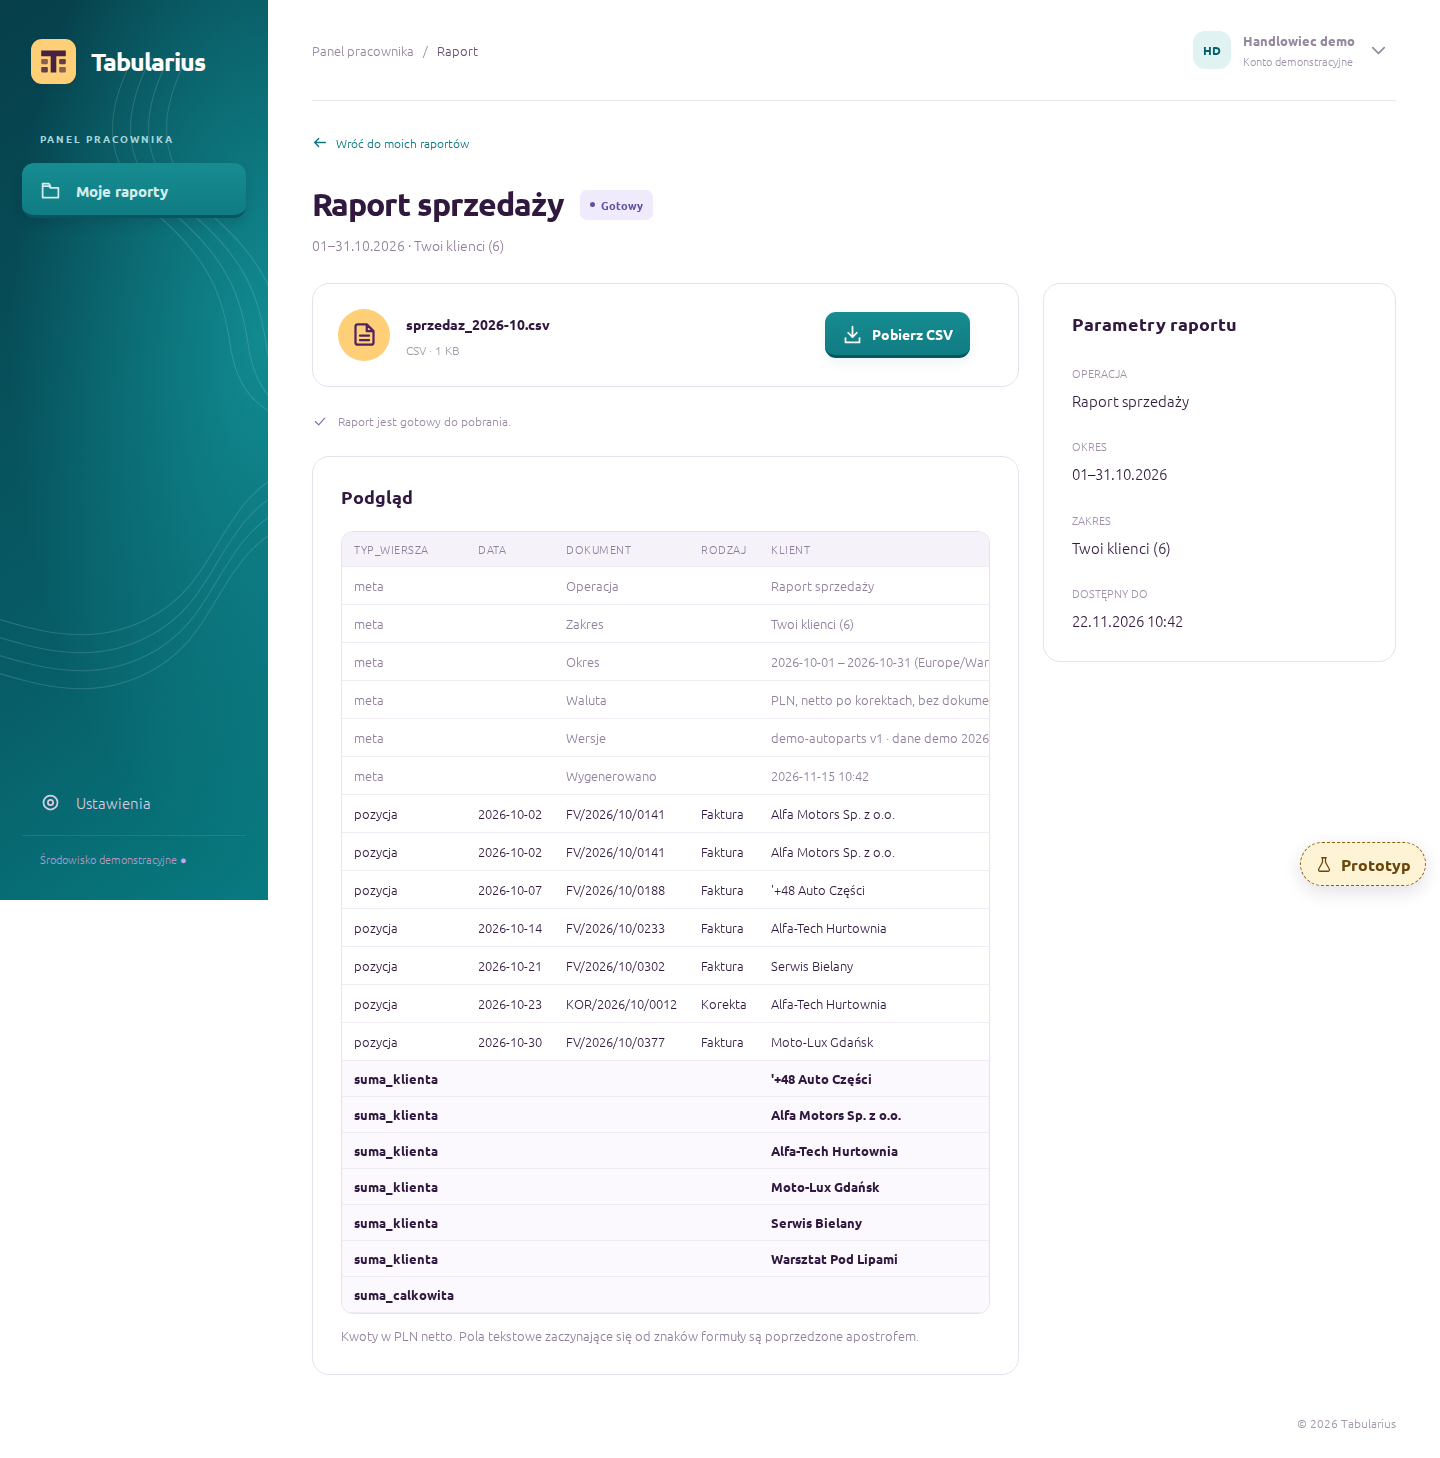
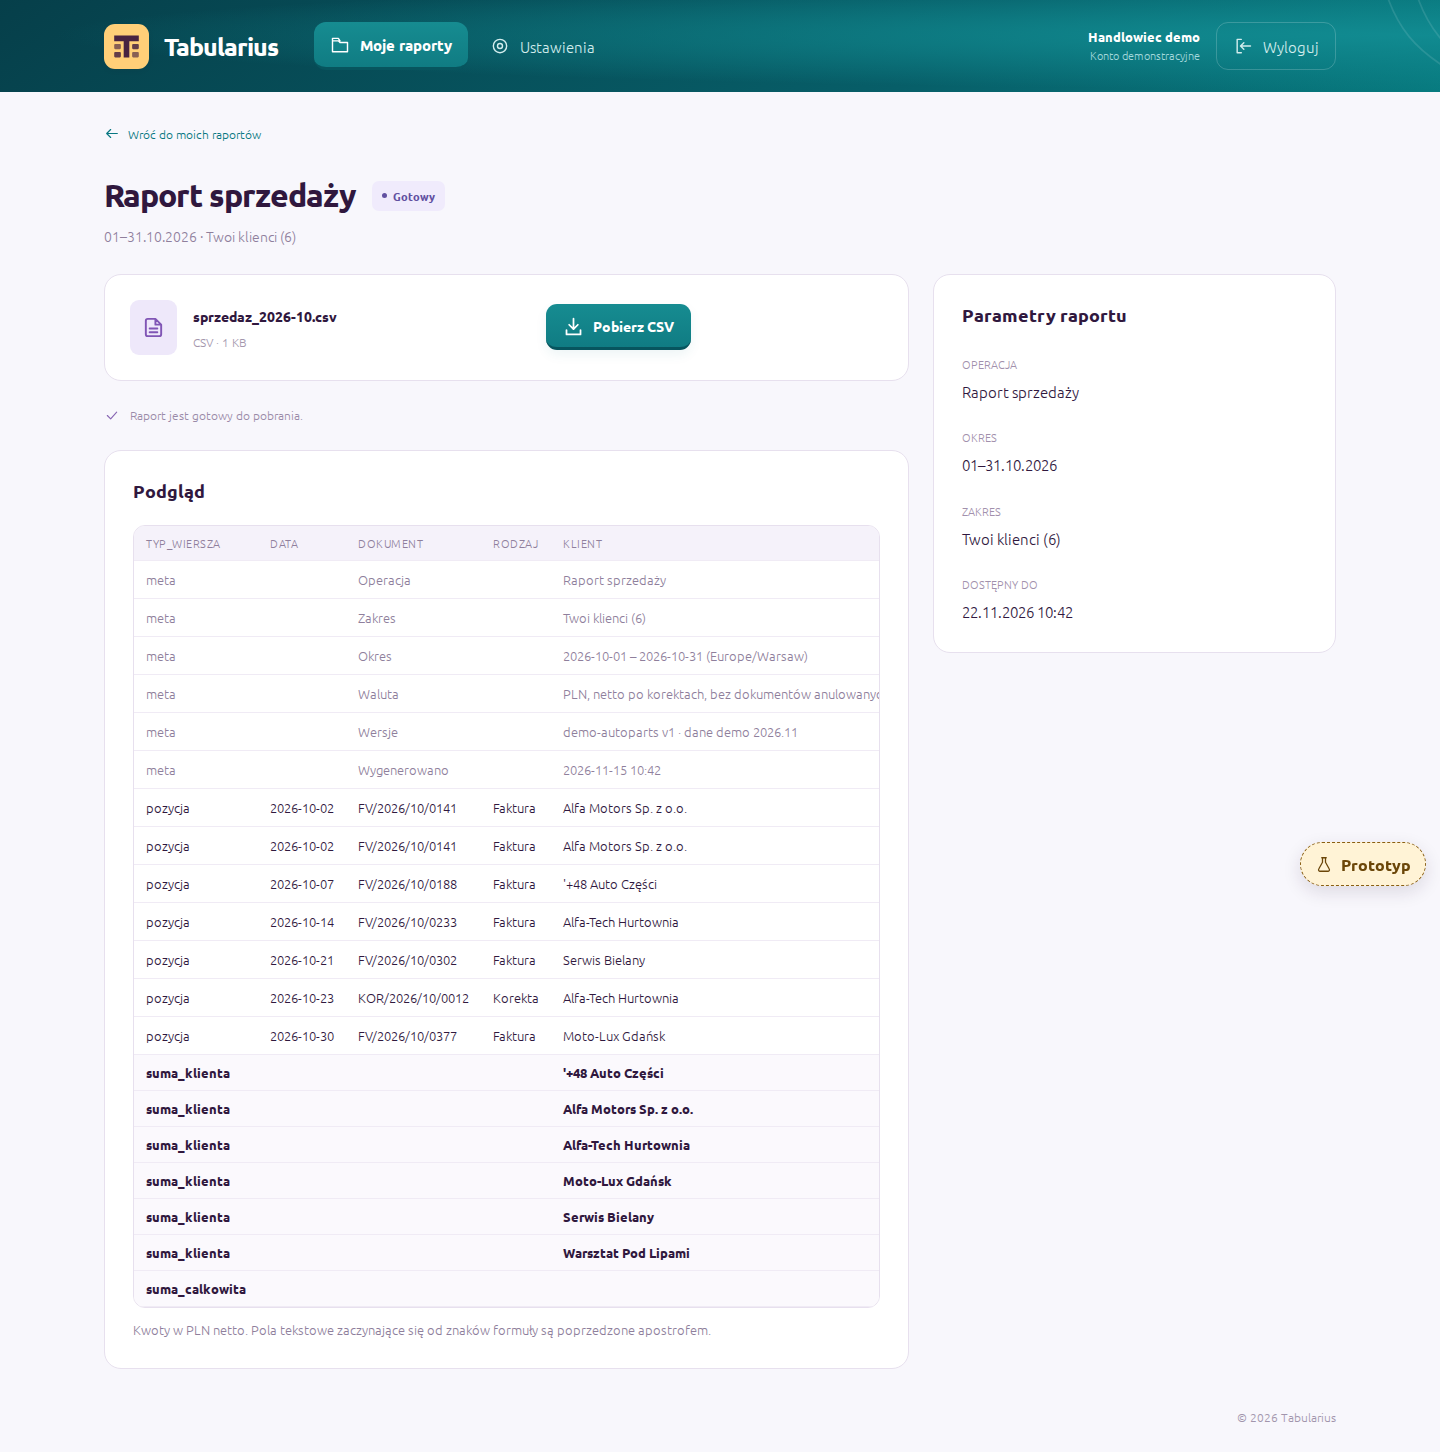
[client] Employee header instead of sidebar; demo credentials format

diff --git a/client/src/components/EmployeeShell.vue b/client/src/components/EmployeeShell.vue
@@ -1,0 +1,60 @@
+<script setup lang="ts">
+// Employee shell: one teal header with all links (no sidebar — the employee has a single section).
+// Colours come from the employee login hero (mockup 01-logowanie-pracownik); content uses the mockup classes.
+import { ref, watch } from 'vue'
+import { useRoute, useRouter } from 'vue-router'
+import logo from '../assets/logo.svg'
+import { logout, proto } from '../mock/api'
+import Ico from './Ico.vue'
+
+const route = useRoute()
+const router = useRouter()
+const drawer = ref<HTMLDetailsElement | null>(null)
+const links = [
+  { to: '/moje-raporty', label: 'Moje raporty', icon: 'folder', match: (p: string) => p.startsWith('/moje-raporty') && p !== '/moje-raporty/konto' },
+  { to: '/moje-raporty/konto', label: 'Ustawienia', icon: 'settings', match: (p: string) => p === '/moje-raporty/konto' },
+]
+watch(() => route.fullPath, () => {
+  if (drawer.value) drawer.value.open = false
+})
+function onKey(e: KeyboardEvent) {
+  if (e.key === 'Escape' && drawer.value) drawer.value.open = false
+}
+function signOut() {
+  logout()
+  void router.push('/logowanie')
+}
+</script>
+
+<template>
+  <div class="screen x-emp x-empshell" @keydown="onKey">
+    <header class="x-emphead">
+      <div class="x-empinner">
+        <RouterLink class="brand" to="/moje-raporty"><img :src="logo" alt="" />Tabularius</RouterLink>
+        <nav class="x-emplinks" aria-label="Nawigacja">
+          <RouterLink v-for="l in links" :key="l.to" :to="l.to" class="x-emplink" :class="{ active: l.match(route.path) }" :aria-current="l.match(route.path) ? 'page' : undefined">
+            <Ico :name="l.icon" />{{ l.label }}
+          </RouterLink>
+        </nav>
+        <div class="x-empuser">
+          <span class="x-empname"><b>Handlowiec demo</b><small>{{ proto.mode === 'demo' ? 'Konto demonstracyjne' : 'Panel pracownika' }}</small></span>
+          <button class="x-emplink" type="button" @click="signOut"><Ico name="logout" />Wyloguj</button>
+        </div>
+        <details ref="drawer" class="menudrawer x-empmenu">
+          <summary aria-label="Otwórz menu"><Ico name="menu" :width="2" /></summary>
+          <nav class="drawer" aria-label="Nawigacja">
+            <div class="workspace">PANEL PRACOWNIKA</div>
+            <RouterLink v-for="l in links" :key="l.to" :to="l.to" class="nav" :class="{ active: l.match(route.path) }" :aria-current="l.match(route.path) ? 'page' : undefined">
+              <Ico :name="l.icon" />{{ l.label }}
+            </RouterLink>
+            <button class="nav" type="button" @click="signOut"><Ico name="logout" />Wyloguj</button>
+          </nav>
+        </details>
+      </div>
+    </header>
+    <main id="main" class="main x-empmain" tabindex="-1">
+      <RouterView />
+      <footer class="x-empfoot">© 2026 Tabularius</footer>
+    </main>
+  </div>
+</template>

diff --git a/client/src/styles/extras.css b/client/src/styles/extras.css
@@ -124,3 +124,36 @@ td a{color:inherit;text-decoration:none}
 .detailgrid>*{min-width:0}
 .x-row a.cta,.x-emp .x-row a.cta{color:#fff}
 @media (max-width: 860px){.login .form,.login:has(.hero.blue) .form,.login:has(.hero:not(.blue)) .form{margin-top:33px}}
+
+/* Employee shell: teal header instead of a one-item sidebar (owner request 2026-11-21). */
+.x-empshell{background:#f8f7fc}
+.x-emphead{position:relative;z-index:5;color:#fff;isolation:isolate;overflow:visible;background:radial-gradient(ellipse at 100% 38%,#118b91 0,transparent 68%),linear-gradient(145deg,#063f4a,#075e68 65%,#087b80)}
+.x-emphead::before{content:'';position:absolute;inset:0;z-index:-1;background:url('../assets/pattern-flow.svg') right center/650px 1000px no-repeat;opacity:.8;pointer-events:none}
+.x-empinner{max-width:1320px;margin:0 auto;padding:0 44px;min-height:92px;display:flex;align-items:center;gap:36px}
+.x-emphead .brand{color:#fff;font-size:25px}
+.x-emphead .brand img{width:45px;height:45px}
+.x-emplinks{display:flex;gap:6px;margin-right:auto}
+.x-emplink{display:inline-flex;align-items:center;gap:10px;min-height:48px;padding:0 16px;border-radius:12px;border:0;background:none;color:#d3eded;font:inherit;font-size:15px;text-decoration:none;cursor:pointer}
+.x-emplink .ico{width:20px;height:20px}
+.x-emplink:hover{background:#ffffff14}
+.x-emplink.active{background:linear-gradient(180deg,#168c91,#107c83);border-bottom:3px solid #07555e;color:#fff;font-weight:700}
+.x-empuser{display:flex;align-items:center;gap:16px}
+.x-empname{text-align:right;font-size:13px;line-height:1.35}
+.x-empname b{display:block}
+.x-empname small{color:#a3d8dc;font-size:11px}
+.x-empuser .x-emplink{border:1px solid #ffffff30}
+.x-empmenu{display:none}
+.x-empmain{max-width:1320px;margin:0 auto;width:100%}
+.x-empfoot{text-align:right;padding:40px 0 27px;font-size:12px;color:#a295ac}
+.x-emphead .menudrawer summary{background:#ffffff1c}
+.x-emphead .drawer{top:82px}
+@media (max-width: 860px){
+  .x-empinner{padding:0 20px;min-height:82px;gap:12px;justify-content:space-between}
+  .x-emphead .brand{font-size:23px}
+  .x-emphead .brand img{width:41px;height:41px}
+  .x-emplinks,.x-empuser{display:none}
+  .x-empmenu{display:block}
+  .x-empmain{padding:0 20px}
+  .x-empfoot{padding:22px 0 27px;font-size:11px}
+}
+.x-empmain a.cta{font-weight:700}

diff --git a/client/src/views/LoginView.vue b/client/src/views/LoginView.vue
@@ -71,7 +71,9 @@ function forgot() {
           <p>Wyślij e-mail z poleceniem na adres:</p>
           <b class="address">{{ DEMO_MAILBOX }}</b>
           <p>Przykład: Przygotuj raport sprzedaży<br />za październik 2026.</p>
-          <p style="font-size: 13px; margin-top: 12px; opacity: 0.8">Link do raportu otrzymasz w odpowiedzi. Konto demo: <b>{{ creds.email }}</b> / <b>{{ creds.password }}</b></p>
+          <p style="font-size: 13px; margin-top: 12px; opacity: 0.8">Link do raportu otrzymasz w odpowiedzi.</p>
+          <p style="margin-top: 18px">Przykładowe dane logowania</p>
+          <p style="margin-top: 12px">E-mail: <b>{{ creds.email }}</b><br />Hasło: <b>{{ creds.password }}</b></p>
         </template>
       </div>
       <div class="herofoot">TABULARIUS &nbsp; / &nbsp; WERSJA DEMONSTRACYJNA</div>
@@ -122,7 +124,9 @@ function forgot() {
           <p>Wyślij e-mail z poleceniem na adres:</p>
           <b class="address">{{ DEMO_MAILBOX }}</b>
           <p>Przykład: Przygotuj raport sprzedaży<br />za październik 2026.</p>
-          <p style="font-size: 13px; margin-top: 12px; opacity: 0.8">Link do raportu otrzymasz w odpowiedzi. Konto demo: <b>{{ creds.email }}</b> / <b>{{ creds.password }}</b></p>
+          <p style="font-size: 13px; margin-top: 12px; opacity: 0.8">Link do raportu otrzymasz w odpowiedzi.</p>
+          <p style="margin-top: 18px">Przykładowe dane logowania</p>
+          <p style="margin-top: 12px">E-mail: <b>{{ creds.email }}</b><br />Hasło: <b>{{ creds.password }}</b></p>
         </template>
       </div>
       <div class="formfooter"><span>© 2026 Tabularius</span></div>

diff --git a/client/src/router.ts b/client/src/router.ts
@@ -10,8 +10,7 @@ export const router = createRouter({
     { path: '/admin/logowanie', component: () => import('./views/LoginView.vue'), props: { role: 'admin' }, meta: { title: 'Logowanie administratora' } },
     {
       path: '/moje-raporty',
-      component: () => import('./components/AppShell.vue'),
-      props: { role: 'employee' },
+      component: () => import('./components/EmployeeShell.vue'),
       meta: { role: 'employee' },
       children: [
         { path: '', component: () => import('./views/employee/MyReportsView.vue'), meta: { title: 'Moje raporty' } },

diff --git a/docs/design/prototype/README.md b/docs/design/prototype/README.md
@@ -16,7 +16,7 @@ Run instructions: [client/README.md](../../../client/README.md). Status: **secon
 
 | Where | Mockup | Prototype | Reason |
 |---|---|---|---|
-| Employee login, demo box | Mailbox address only | Adds the shared demo account credentials (`handlowiec@example.com` / `Demo123!`) | Brief §4.1: shared demo credentials are displayed. Without them the employee cannot open the linked report |
+| Employee login, demo box | Mailbox address only | Adds „Przykładowe dane logowania” with `handlowiec@example.com` / `Demo123!`, in the same format as the admin box (owner request, 2026-11-21) | Brief §4.1: shared demo credentials are displayed. Without them the employee cannot open the linked report |
 | Admin login, demo box | „Konto demonstracyjne do skonfigurowania” | „Konto demonstracyjne, wspólne dla uczestników” | The account exists in the prototype. `admin@example.com` / `Demo123!` are taken from the mockup |
 | Admin login heading | „Odbierz raport” | unchanged | Kept as in the mockup. It may be a copy of the employee heading; **owner to confirm** |
 | Login screens | Static fields | Validation errors, show/hide password, error and „after login we open the report” notes | Brief §9 states |
@@ -25,7 +25,7 @@ Run instructions: [client/README.md](../../../client/README.md). Status: **secon
 | Ticket details | Correspondence, file card, parameters | Same layout. Extra: a status banner for states other than completed, an action card for interventions, a reply simulation (prototype only), a collapsible result preview, and the history tab | Scenarios from brief §9 |
 | Ticket details in the **public demo** | Shows name, address and body | „Prototyp” → „Widoki publicznego demo” replaces them with an alias and the recognized operation | Brief §4.1 / ID-DEMO-3. Off by default so the screen matches the mockup (trusted view) |
 | „Ustawienia” | Menu item | A read-only page with environment information | A menu item does not add scope |
-| Employee screens („Moje raporty”, report, confirmation) | None | The admin shell structure with the employee login's teal palette, file cards and parameter cards | Brief §8, §9.1 asks for them |
+| Employee screens („Moje raporty”, report, confirmation, settings) | None | No sidebar: a teal header in the colours of the employee login holds all links (Moje raporty, Ustawienia, Wyloguj; a menu on phones). Content uses the mockup classes (file cards, parameter cards, badges). Owner request, 2026-11-21 | Brief §8, §9.1 asks for these screens. A one-item sidebar wasted space |
 | Text contrast | Grey secondary text such as `#a092ac` | Unchanged in mockup elements | Kept as designed. Contrast is flagged under limitations |
 
 ## Scenarios covered (brief §9)

diff --git a/docs/case-study/stages/02-prototype.md b/docs/case-study/stages/02-prototype.md
@@ -77,3 +77,14 @@ The prototype is ready for the owner's assessment. Feedback will be handled as a
 - **Trade-off reopened:** the first version raised low-contrast mockup greys to WCAG AA. The second keeps the mockup values and asks the owner.
 - **Lesson:** when supplied mockups have sources, compare against them screen by screen before asking for acceptance. Passing functional checks does not show the design was followed.
 - Publication angle (optional): „Green checks, rejected prototype” — automated checks verified behaviour but not fidelity to the design input.
+
+## Owner corrections to the second version (2026-11-21)
+
+- **Human intervention (owner):**
+  1. Show the employee demo credentials in the same format as on the admin login.
+  2. Remove the employee panel's one-item left column and use a header in its teal colours with all links. This takes the idea from the first version but keeps the current content design.
+- **Agent:**
+  - added the „Przykładowe dane logowania” block to the employee demo box (desktop and phone);
+  - added `EmployeeShell.vue` (teal header with Moje raporty, Ustawienia, user and Wyloguj, and a menu below 860 px);
+  - kept the content views unchanged.
+- **Evidence:** `prototype-screens.mjs` — 57 checks, no horizontal page scroll at 1440 or 360 px, no console errors. Screens: `screens/*-01-login-employee.png`, `*-22-my-reports.png`, `*-21-employee-report.png`.
